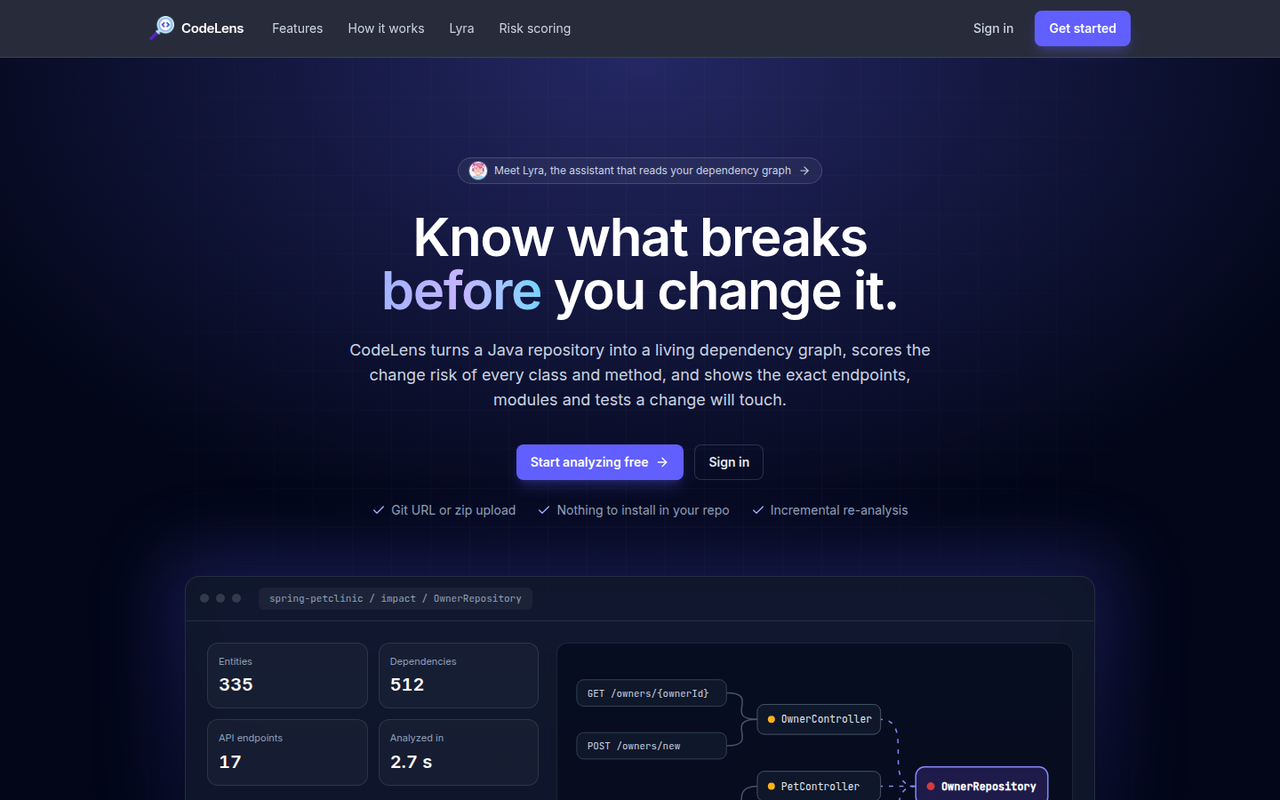
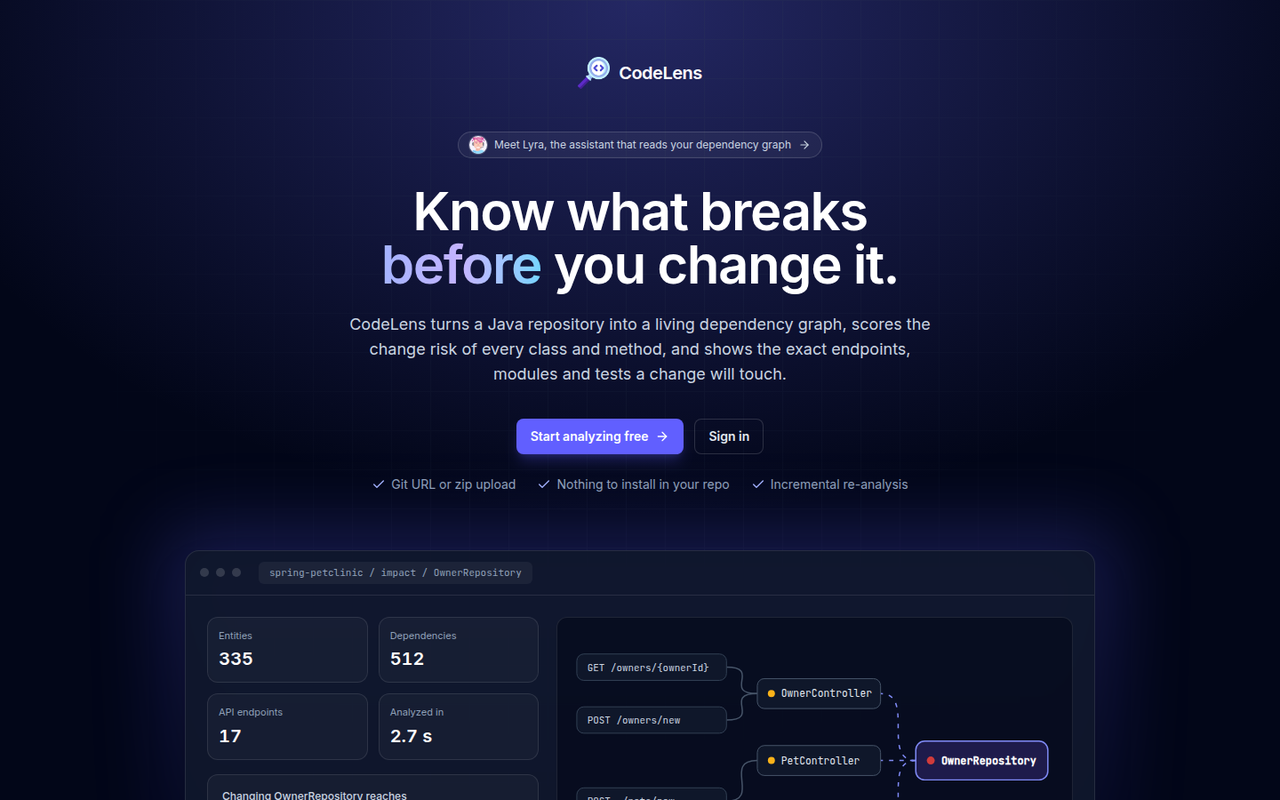
landing: drop navbar

diff --git a/frontend/src/pages/LandingPage.tsx b/frontend/src/pages/LandingPage.tsx
@@ -1,8 +1,7 @@
 import {
-  ArrowRight, Check, Crosshair, FlaskConical, Gauge, GitBranch, Layers, Menu, Network, OctagonAlert, RefreshCw,
-  ShieldCheck, TriangleAlert, X,
+  ArrowRight, Check, Crosshair, FlaskConical, Gauge, GitBranch, Layers, Network, OctagonAlert, RefreshCw,
+  ShieldCheck, TriangleAlert,
 } from 'lucide-react'
-import { useState } from 'react'
 import { Link } from 'react-router-dom'
 import { Logo } from '@/components/Logo'
 import { LyraIcon, LyraMark } from '@/components/Lyra'
@@ -77,56 +76,6 @@ const lyraPoints = [
 
 const stack = ['Java 21', 'Spring Boot 3', 'JavaParser', 'PostgreSQL', 'Redis', 'FastAPI', 'React 19', 'React Flow', 'Docker']
 
-function Nav() {
-  const { signedIn } = useAuth()
-  const [open, setOpen] = useState(false)
-  const actions = signedIn ? (
-    <Link to="/dashboard" className={primaryBtn}>
-      Open dashboard <ArrowRight className="size-4" />
-    </Link>
-  ) : (
-    <>
-      <Link to="/signin" className="px-2 text-sm font-medium text-slate-300 hover:text-white">
-        Sign in
-      </Link>
-      <Link to="/signup" className={primaryBtn}>
-        Get started
-      </Link>
-    </>
-  )
-  return (
-    <header className="sticky top-0 z-40 border-b border-white/10 bg-slate-950/85 backdrop-blur">
-      <div className="mx-auto flex h-16 max-w-6xl items-center gap-8 px-6">
-        <Link to="/" className="flex items-center gap-2">
-          <Logo size={28} />
-          <span className="text-[15px] font-semibold tracking-tight text-white">CodeLens</span>
-        </Link>
-        <nav className="hidden items-center gap-7 text-sm text-slate-300 md:flex">
-          {navLinks.map((l) => (
-            <a key={l.href} href={l.href} className="transition hover:text-white">
-              {l.label}
-            </a>
-          ))}
-        </nav>
-        <div className="ml-auto hidden items-center gap-4 md:flex">{actions}</div>
-        <button type="button" onClick={() => setOpen((o) => !o)} className="ml-auto text-slate-300 md:hidden" aria-label="Menu" aria-expanded={open}>
-          {open ? <X className="size-5" /> : <Menu className="size-5" />}
-        </button>
-      </div>
-      {open && (
-        <div className="space-y-1 border-t border-white/10 px-6 py-4 md:hidden">
-          {navLinks.map((l) => (
-            <a key={l.href} href={l.href} onClick={() => setOpen(false)} className="block py-1.5 text-sm text-slate-300">
-              {l.label}
-            </a>
-          ))}
-          <div className="flex items-center gap-4 pt-3">{actions}</div>
-        </div>
-      )}
-    </header>
-  )
-}
-
 function Hero() {
   const { signedIn } = useAuth()
   return (
@@ -136,7 +85,11 @@ function Hero() {
         aria-hidden
         className="pointer-events-none absolute inset-0 [mask-image:radial-gradient(ellipse_at_top,black,transparent_70%)] opacity-20 [background-image:linear-gradient(to_right,#334155_1px,transparent_1px),linear-gradient(to_bottom,#334155_1px,transparent_1px)] [background-size:44px_44px]"
       />
-      <div className="relative mx-auto max-w-6xl px-6 pt-20 pb-24 text-center sm:pt-28">
+      <div className="relative mx-auto max-w-6xl px-6 pt-12 pb-24 text-center sm:pt-16">
+        <Link to="/" className="mx-auto mb-12 flex w-fit items-center gap-2.5">
+          <Logo size={36} />
+          <span className="text-xl font-semibold tracking-tight text-white">CodeLens</span>
+        </Link>
         <a href="#lyra" className="inline-flex items-center gap-2 rounded-full border border-white/15 bg-white/5 px-3 py-1 text-xs text-slate-300 transition hover:bg-white/10">
           <LyraMark size={20} className="ring-white/20" /> Meet Lyra, the assistant that reads your dependency graph
           <ArrowRight className="size-3.5" />
@@ -324,7 +277,7 @@ function Proof() {
 
 function Features() {
   return (
-    <section id="features" className="scroll-mt-16 bg-slate-50">
+    <section id="features" className="bg-slate-50">
       <div className="mx-auto max-w-6xl px-6 py-24">
         <div className="max-w-2xl">
           <Eyebrow>Platform</Eyebrow>
@@ -352,7 +305,7 @@ function Features() {
 
 function HowItWorks() {
   return (
-    <section id="how" className="scroll-mt-16 border-y border-slate-200 bg-white">
+    <section id="how" className="border-y border-slate-200 bg-white">
       <div className="mx-auto max-w-6xl px-6 py-24">
         <div className="mx-auto max-w-2xl text-center">
           <Eyebrow>How it works</Eyebrow>
@@ -384,7 +337,7 @@ const Cite = ({ n }: { n: number }) => (
 
 function LyraSection() {
   return (
-    <section id="lyra" className="scroll-mt-16 bg-gradient-to-b from-violet-50/70 to-slate-50">
+    <section id="lyra" className="bg-gradient-to-b from-violet-50/70 to-slate-50">
       <div className="mx-auto grid max-w-6xl items-center gap-14 px-6 py-24 lg:grid-cols-2">
         <div>
           <div className="flex items-center gap-3">
@@ -467,7 +420,7 @@ function Scoring() {
     { level: 'HIGH' as const, icon: OctagonAlert, range: '60 and above' },
   ]
   return (
-    <section id="scoring" className="scroll-mt-16 border-t border-slate-200 bg-white">
+    <section id="scoring" className="border-t border-slate-200 bg-white">
       <div className="mx-auto grid max-w-6xl items-center gap-14 px-6 py-24 lg:grid-cols-2">
         <div>
           <Eyebrow>Risk scoring</Eyebrow>
@@ -596,7 +549,6 @@ function Footer() {
 export default function LandingPage() {
   return (
     <div className="bg-white">
-      <Nav />
       <main>
         <Hero />
         <Proof />
